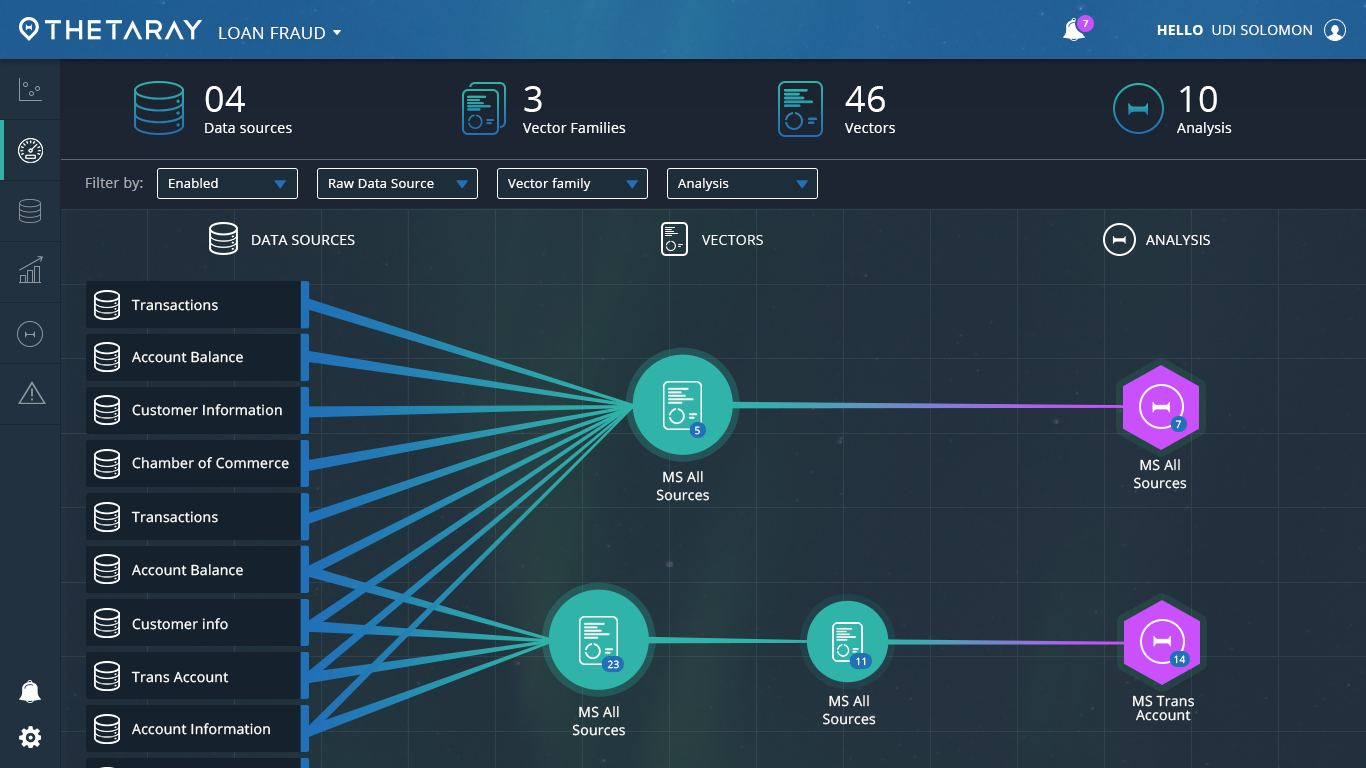
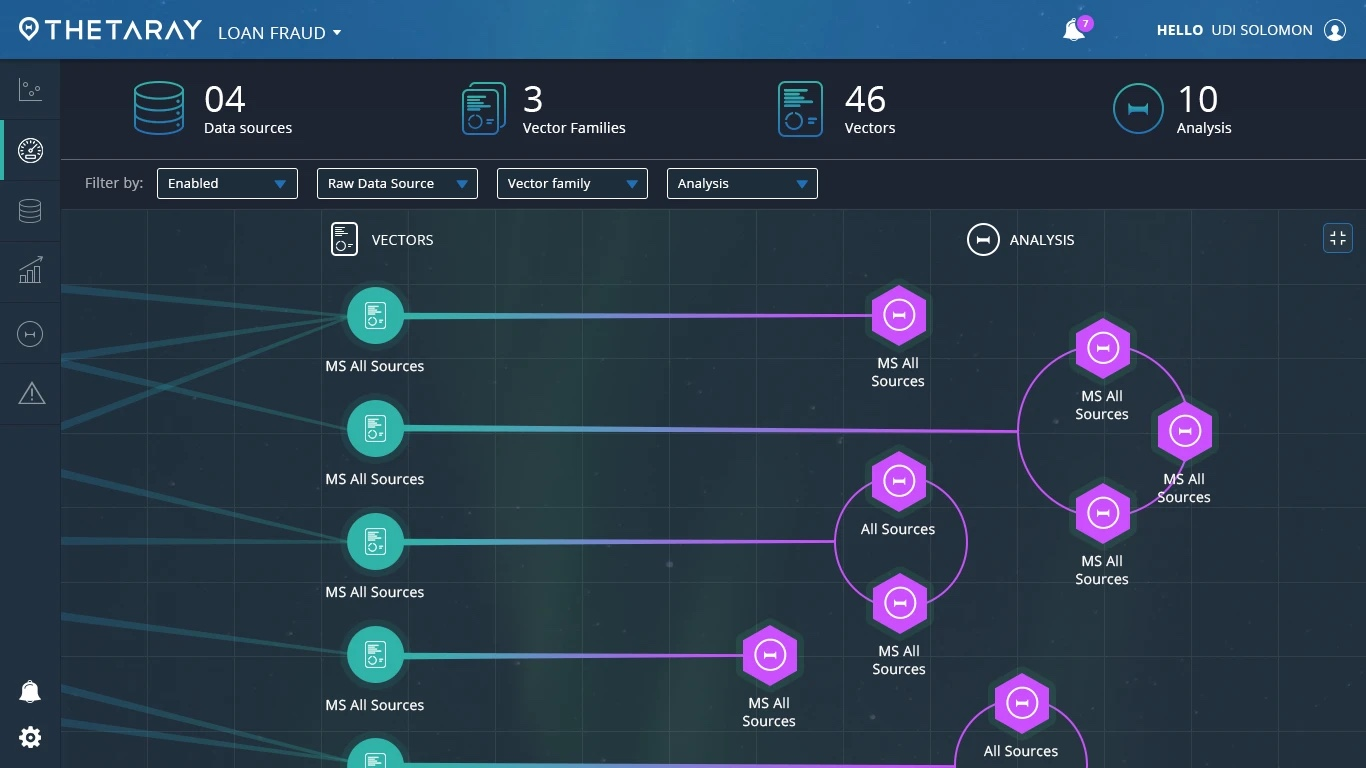
Replace the ThetaRay chapter 1 screenshot

diff --git a/projects/thetaray/index.html b/projects/thetaray/index.html
@@ -50,7 +50,7 @@
 
 <div class="s-divider" aria-hidden="true"><span></span></div>
 <section class="gut"><div class="s-col s-ch"><span class="n">01</span><h2>No product, no brand, no precedent</h2><p>The product managers thought in math, not in user needs. I became the translator: their models into screens an analyst could read, and analysts' needs back into requirements. Sketches went to the internal team, then quickly to early design partners at banks.</p></div></section>
-<div class="s-dark gut"><div class="frame"><div class="shot"><img src="../../assets/img/thetaray/vector-builder-pipeline.jpg" alt="Vector Builder pipeline from data sources to analyses" loading="lazy"></div></div></div>
+<div class="s-dark gut"><div class="frame"><div class="shot"><img src="../../assets/img/thetaray/vector-builder-pipeline.jpg?v=2" alt="Vector Builder: vectors connected to the analyses they feed" loading="lazy"></div></div></div>
 <div class="s-divider" aria-hidden="true"><span></span></div>
 <section class="gut"><div class="s-col s-ch"><span class="n">02</span><h2>See the pattern, not the list</h2><p>Instead of a long table of alerts, analysts see clusters on a map of severity over time. Bubble size is cluster size, so the unusual stands out at a glance.</p></div></section>
 <div class="s-dark gut"><div class="frame"><div class="stack"><div class="shot"><img src="../../assets/img/thetaray/analysis-results.jpg" alt="Analysis results cluster map" loading="lazy"></div><div class="shot"><img src="../../assets/img/thetaray/results-dashboard.jpg" alt="Results dashboard" loading="lazy"></div></div></div></div>

diff --git a/CLAUDE.md b/CLAUDE.md
@@ -6,7 +6,7 @@ Static website (plain HTML, CSS and JS, no build step) for Itzik Bitran, Head of
 
 - `index.html`: home page, built from the Figma frame (hero, collage, Works cards, About, Contact).
 - `styleguide/index.html`: live style guide rendered from `site.css`.
-- `projects/<slug>/index.html`: one folder per case study, in the short story format (four pages: franklin, thetaray, dreamworks, sixgill). `projects/franklin/long.html` and `projects/thetaray/long.html` are the earlier long versions, kept in case Itzik wants to go back.
+- `projects/<slug>/index.html`: one folder per case study, in the short story format (four pages: franklin, thetaray, dreamworks, sixgill). `projects/franklin/long.html` and `projects/thetaray/long.html` are the earlier long versions, kept in case Itzik wants to go back. The project HTML files are the source of truth: edit them directly.
 - `assets/short format/`: the draft from the Claude chat the story pages were adapted from. Reference only, git-ignored, not published.
 - `assets/css/site.css`: the shared styles and design tokens for every page. Never put page-specific `<style>` blocks in pages; add classes here.
 - `assets/js/site.js`: shared behaviour (sticky bar, hero dissolve, wave gradient, compare slider, lightbox). Each block exits if its element is missing.
